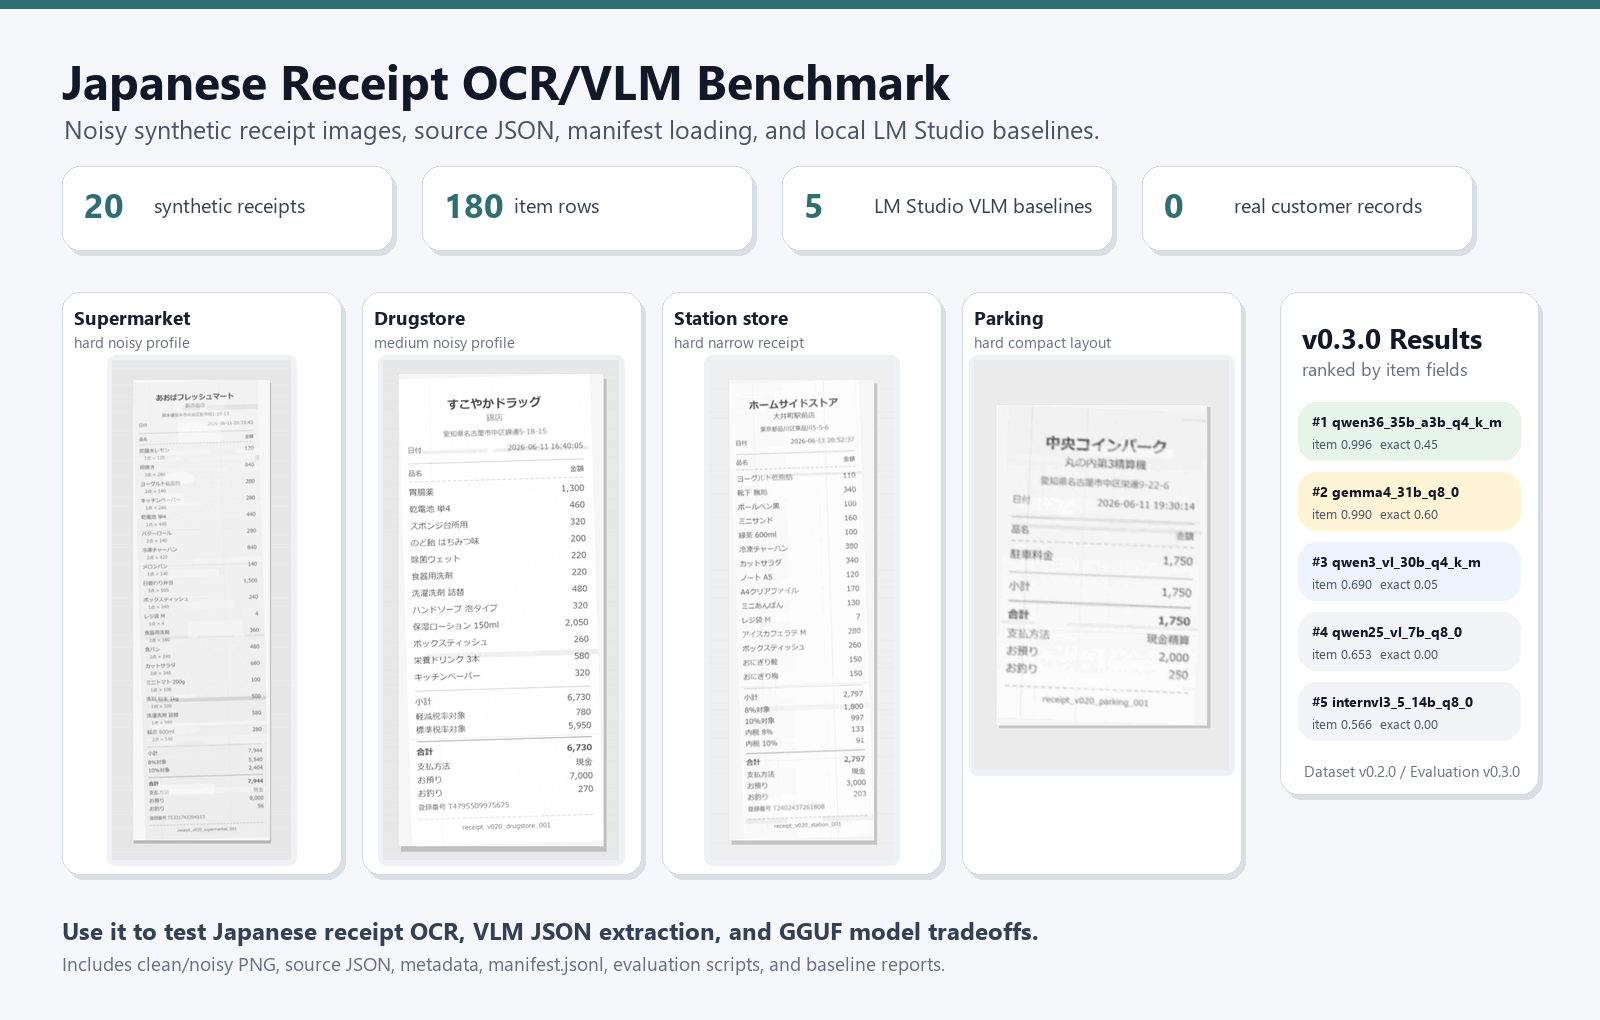
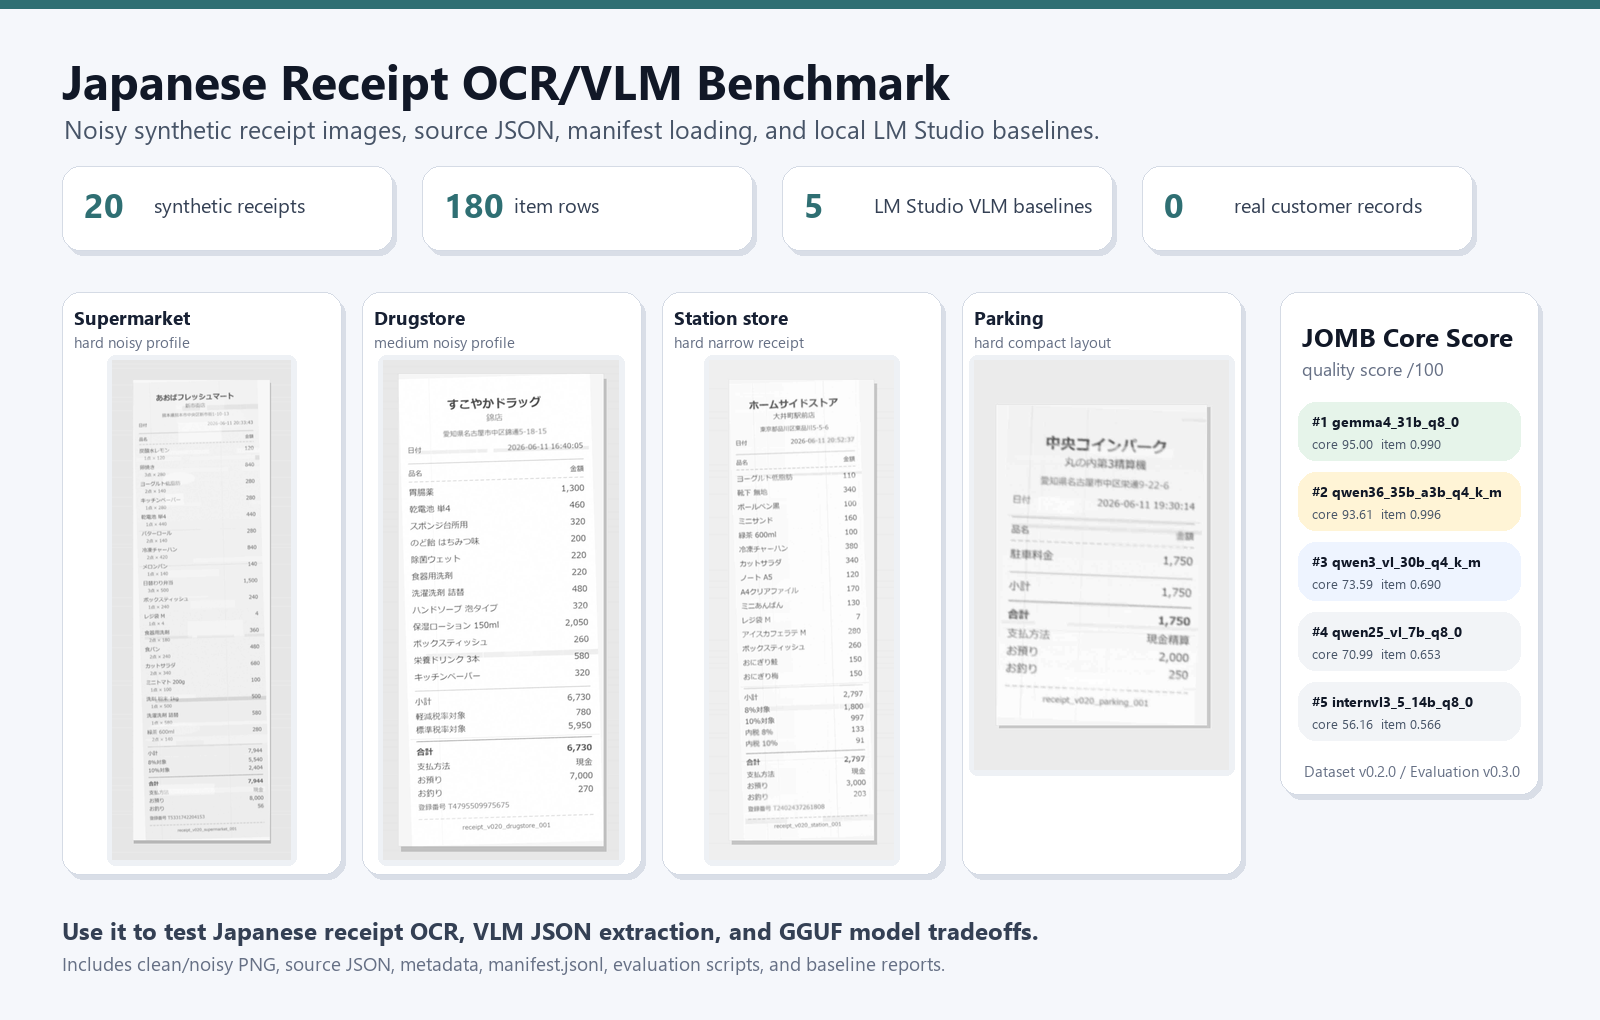
Add JOMB Core Score v1 ranking

diff --git a/reports/v0.3.0/v030_lmstudio_5model_summary.md b/reports/v0.3.0/v030_lmstudio_5model_summary.md
@@ -1,47 +1,58 @@
 # v0.3.0 LM Studio 5-Model Baseline Report
 
-- Created at: `2026-06-15T11:48:42.499085+00:00`
+- Created at: `2026-06-15T14:27:19.370783+00:00`
 - Evaluation version: `v0.3.0`
 - Dataset version: `v0.2.0`
 - Frozen target run ID: `v020_target_20260613_221713`
 - Runtime: `lmstudio_openai_compatible_api`
 - Records: `20` synthetic Japanese receipt images
 - Image variant: noisy PNG images from v0.2.0
+- Rank metric: `JOMB Core Score v1`
 
 ## Summary
 
 v0.3.0 publishes the first official local LM Studio comparison for the frozen v0.2.0 dataset.
 The data payload remains v0.2.0; v0.3.0 is the evaluation/reporting release for five local VLM baselines.
 
+- Best JOMB Core Score v1: `gemma4_31b_q8_0` at `95.00` / 100.
 - Best item-field accuracy: `qwen36_35b_a3b_q4_k_m` at `0.995833`.
 - Best exact-match accuracy: `gemma4_31b_q8_0` at `0.6`.
 - Fastest completed model: `qwen3_vl_30b_q4_k_m` at `3.248` seconds/record.
 - All five selected models produced 20 prediction JSON files with zero missing predictions.
 
+## JOMB Core Score v1
+
+`Core Score / 100 = Exact * 10 + Top-level * 25 + Item fields * 50 + Item count * 15`
+
+- Exact match is useful, but intentionally capped at 10% so strict all-or-nothing JSON matching does not dominate.
+- Item-field extraction receives 50% because line-item recovery is the main task for receipt understanding.
+- Runtime is reported separately and is not included in the score.
+- Missing or invalid prediction JSON should count as zero contribution for the affected record.
+
 ## Comparison
 
-| Rank | Model | Quant | Avg sec | Exact | Top-level | Item fields | Item count |
-| ---: | --- | --- | ---: | ---: | ---: | ---: | ---: |
-| 1 | `qwen36_35b_a3b_q4_k_m` | `Q4_K_M` | 4.282 | 0.45 | 0.972727 | 0.995833 | 1 |
-| 2 | `gemma4_31b_q8_0` | `Q8_0` | 53.195 | 0.6 | 0.979545 | 0.990278 | 1 |
-| 3 | `qwen3_vl_30b_q4_k_m` | `Q4_K_M` | 3.248 | 0.05 | 0.943182 | 0.690278 | 1 |
-| 4 | `qwen25_vl_7b_q8_0` | `Q8_0` | 5.094 | 0 | 0.934091 | 0.652778 | 1 |
-| 5 | `internvl3_5_14b_q8_0` | `Q8_0` | 9.519 | 0 | 0.725 | 0.565672 | 0.65 |
+| Rank | Model | Core /100 | Quant | Avg sec | Exact | Top-level | Item fields | Item count |
+| ---: | --- | ---: | --- | ---: | ---: | ---: | ---: | ---: |
+| 1 | `gemma4_31b_q8_0` | 95.00 | `Q8_0` | 53.195 | 0.6 | 0.979545 | 0.990278 | 1 |
+| 2 | `qwen36_35b_a3b_q4_k_m` | 93.61 | `Q4_K_M` | 4.282 | 0.45 | 0.972727 | 0.995833 | 1 |
+| 3 | `qwen3_vl_30b_q4_k_m` | 73.59 | `Q4_K_M` | 3.248 | 0.05 | 0.943182 | 0.690278 | 1 |
+| 4 | `qwen25_vl_7b_q8_0` | 70.99 | `Q8_0` | 5.094 | 0 | 0.934091 | 0.652778 | 1 |
+| 5 | `internvl3_5_14b_q8_0` | 56.16 | `Q8_0` | 9.519 | 0 | 0.725 | 0.565672 | 0.65 |
 
 ## Item Field Breakdown
 
 | Model | Name | Quantity | Unit price | Amount |
 | --- | ---: | ---: | ---: | ---: |
-| `qwen36_35b_a3b_q4_k_m` | 0.988889 | 0.994444 | 1 | 1 |
 | `gemma4_31b_q8_0` | 0.988889 | 1 | 0.972222 | 1 |
+| `qwen36_35b_a3b_q4_k_m` | 0.988889 | 0.994444 | 1 | 1 |
 | `qwen3_vl_30b_q4_k_m` | 0.938889 | 0.411111 | 0.411111 | 1 |
 | `qwen25_vl_7b_q8_0` | 0.95 | 0.622222 | 0.044444 | 0.994444 |
 | `internvl3_5_14b_q8_0` | 0.544444 | 0.748387 | 0.316129 | 0.644444 |
 
 ## Interpretation
 
-- `qwen36_35b_a3b_q4_k_m` is the strongest item-level structured extraction baseline.
-- `gemma4_31b_q8_0` has the best exact-match and top-level-field accuracy, but is much slower.
+- `gemma4_31b_q8_0` has the best JOMB Core Score v1, exact-match score, and top-level-field accuracy, but is much slower.
+- `qwen36_35b_a3b_q4_k_m` is the strongest item-level structured extraction baseline and the best speed/quality tradeoff among the top two.
 - `qwen25_vl_7b_q8_0` is the speed/lightweight baseline; it is useful for smoke tests but weak on unit-price extraction.
 - `qwen3_vl_30b_q4_k_m` reads receipt-level fields well but loses accuracy on item quantity and unit price.
 - `internvl3_5_14b_q8_0` remains useful as a non-Qwen comparison, but trails the Qwen/Gemma results on this benchmark.

diff --git a/README.md b/README.md
@@ -22,23 +22,34 @@ It is intentionally small, inspectable, and easy to run locally. That makes it u
 - **Canonical data root:** `release_v0.2.0/data/v0.2.0`
 - **Official v0.3.0 reports:** `reports/v0.3.0`
 
-## v0.3.0 Result Snapshot
+<!-- JOMB_V030_LMSTUDIO_BASELINE_START -->
+## v0.3.0 LM Studio 5-Model Baseline
 
 The v0.3.0 release compares five local GGUF/VLM models through LM Studio's OpenAI-compatible API on the same 20 noisy receipt images.
 
-| Rank | Model | Quant | Avg sec | Exact | Top-level | Item fields | Item count |
-| ---: | --- | --- | ---: | ---: | ---: | ---: | ---: |
-| 1 | `qwen36_35b_a3b_q4_k_m` | `Q4_K_M` | 4.282 | 0.45 | 0.972727 | 0.995833 | 1 |
-| 2 | `gemma4_31b_q8_0` | `Q8_0` | 53.195 | 0.6 | 0.979545 | 0.990278 | 1 |
-| 3 | `qwen3_vl_30b_q4_k_m` | `Q4_K_M` | 3.248 | 0.05 | 0.943182 | 0.690278 | 1 |
-| 4 | `qwen25_vl_7b_q8_0` | `Q8_0` | 5.094 | 0 | 0.934091 | 0.652778 | 1 |
-| 5 | `internvl3_5_14b_q8_0` | `Q8_0` | 9.519 | 0 | 0.725 | 0.565672 | 0.65 |
+### JOMB Core Score v1
+
+`Core Score / 100 = Exact * 10 + Top-level * 25 + Item fields * 50 + Item count * 15`
+
+The score is intentionally quality-only: runtime is reported separately, and item-field extraction receives the largest weight because line-item recovery is the main benchmark task.
+
+### Result Snapshot
+
+| Rank | Model | Core /100 | Quant | Avg sec | Exact | Top-level | Item fields | Item count |
+| ---: | --- | ---: | --- | ---: | ---: | ---: | ---: | ---: |
+| 1 | `gemma4_31b_q8_0` | 95.00 | `Q8_0` | 53.195 | 0.6 | 0.979545 | 0.990278 | 1 |
+| 2 | `qwen36_35b_a3b_q4_k_m` | 93.61 | `Q4_K_M` | 4.282 | 0.45 | 0.972727 | 0.995833 | 1 |
+| 3 | `qwen3_vl_30b_q4_k_m` | 73.59 | `Q4_K_M` | 3.248 | 0.05 | 0.943182 | 0.690278 | 1 |
+| 4 | `qwen25_vl_7b_q8_0` | 70.99 | `Q8_0` | 5.094 | 0 | 0.934091 | 0.652778 | 1 |
+| 5 | `internvl3_5_14b_q8_0` | 56.16 | `Q8_0` | 9.519 | 0 | 0.725 | 0.565672 | 0.65 |
 
 Quick takeaways:
 
-- `qwen36_35b_a3b_q4_k_m` is the strongest item-level structured extraction baseline.
-- `gemma4_31b_q8_0` has the best exact-match and top-level-field score, but is much slower.
+- `gemma4_31b_q8_0` has the best JOMB Core Score v1 and exact-match score, but is much slower.
+- `qwen36_35b_a3b_q4_k_m` is the strongest item-level structured extraction baseline and the best speed/quality tradeoff among the top two.
 - `qwen25_vl_7b_q8_0` is a useful lightweight speed baseline, but weak on unit-price extraction.
+
+<!-- JOMB_V030_LMSTUDIO_BASELINE_END -->
 
 ## What You Get
 

diff --git a/docs/releases/v0.3.0.md b/docs/releases/v0.3.0.md
@@ -5,24 +5,31 @@ v0.3.0 is the first official five-model LM Studio baseline comparison for the fr
 ## What Changed
 
 - Added official local LM Studio evaluation results for five VLM baselines.
+- Promoted `JOMB Core Score v1` as the official headline ranking metric.
 - Kept the underlying dataset payload fixed at v0.2.0.
 - Added v0.3.0 model registry, prompt, run-pack, probe, checker, and inference entrypoints.
 - Published sanitized comparison artifacts without local absolute paths.
 
 ## Official Models
 
-| Rank | Model | Quant | Avg sec | Exact | Top-level | Item fields | Item count |
-| ---: | --- | --- | ---: | ---: | ---: | ---: | ---: |
-| 1 | `qwen36_35b_a3b_q4_k_m` | `Q4_K_M` | 4.282 | 0.45 | 0.972727 | 0.995833 | 1 |
-| 2 | `gemma4_31b_q8_0` | `Q8_0` | 53.195 | 0.6 | 0.979545 | 0.990278 | 1 |
-| 3 | `qwen3_vl_30b_q4_k_m` | `Q4_K_M` | 3.248 | 0.05 | 0.943182 | 0.690278 | 1 |
-| 4 | `qwen25_vl_7b_q8_0` | `Q8_0` | 5.094 | 0 | 0.934091 | 0.652778 | 1 |
-| 5 | `internvl3_5_14b_q8_0` | `Q8_0` | 9.519 | 0 | 0.725 | 0.565672 | 0.65 |
+| Rank | Model | Core /100 | Quant | Avg sec | Exact | Top-level | Item fields | Item count |
+| ---: | --- | ---: | --- | ---: | ---: | ---: | ---: | ---: |
+| 1 | `gemma4_31b_q8_0` | 95.00 | `Q8_0` | 53.195 | 0.6 | 0.979545 | 0.990278 | 1 |
+| 2 | `qwen36_35b_a3b_q4_k_m` | 93.61 | `Q4_K_M` | 4.282 | 0.45 | 0.972727 | 0.995833 | 1 |
+| 3 | `qwen3_vl_30b_q4_k_m` | 73.59 | `Q4_K_M` | 3.248 | 0.05 | 0.943182 | 0.690278 | 1 |
+| 4 | `qwen25_vl_7b_q8_0` | 70.99 | `Q8_0` | 5.094 | 0 | 0.934091 | 0.652778 | 1 |
+| 5 | `internvl3_5_14b_q8_0` | 56.16 | `Q8_0` | 9.519 | 0 | 0.725 | 0.565672 | 0.65 |
+
+## Score Definition
+
+`Core Score / 100 = Exact * 10 + Top-level * 25 + Item fields * 50 + Item count * 15`
+
+Runtime is reported separately and is not part of the score.
 
 ## Recommendation
 
-- Use `qwen36_35b_a3b_q4_k_m` when item-level extraction quality is the priority.
-- Use `gemma4_31b_q8_0` when exact-match and top-level receipt fields matter and runtime is acceptable.
+- Use `gemma4_31b_q8_0` when the highest JOMB Core Score and exact-match score matter and runtime is acceptable.
+- Use `qwen36_35b_a3b_q4_k_m` when item-level extraction quality and speed/quality balance are the priority.
 - Use `qwen25_vl_7b_q8_0` for fast smoke tests and lightweight comparison runs.
 
 ## Compatibility
@@ -31,4 +38,4 @@ v0.3.0 is the first official five-model LM Studio baseline comparison for the fr
 - Dataset root remains `data/v0.2.0` on Hugging Face.
 - Evaluation version is `v0.3.0`; dataset version remains `v0.2.0`.
 
-Created at: `2026-06-15T11:48:42.499085+00:00`
+Created at: `2026-06-15T14:27:19.370783+00:00`

diff --git a/reports/v0.3.0/v030_release_notes.md b/reports/v0.3.0/v030_release_notes.md
@@ -5,24 +5,31 @@ v0.3.0 is the first official five-model LM Studio baseline comparison for the fr
 ## What Changed
 
 - Added official local LM Studio evaluation results for five VLM baselines.
+- Promoted `JOMB Core Score v1` as the official headline ranking metric.
 - Kept the underlying dataset payload fixed at v0.2.0.
 - Added v0.3.0 model registry, prompt, run-pack, probe, checker, and inference entrypoints.
 - Published sanitized comparison artifacts without local absolute paths.
 
 ## Official Models
 
-| Rank | Model | Quant | Avg sec | Exact | Top-level | Item fields | Item count |
-| ---: | --- | --- | ---: | ---: | ---: | ---: | ---: |
-| 1 | `qwen36_35b_a3b_q4_k_m` | `Q4_K_M` | 4.282 | 0.45 | 0.972727 | 0.995833 | 1 |
-| 2 | `gemma4_31b_q8_0` | `Q8_0` | 53.195 | 0.6 | 0.979545 | 0.990278 | 1 |
-| 3 | `qwen3_vl_30b_q4_k_m` | `Q4_K_M` | 3.248 | 0.05 | 0.943182 | 0.690278 | 1 |
-| 4 | `qwen25_vl_7b_q8_0` | `Q8_0` | 5.094 | 0 | 0.934091 | 0.652778 | 1 |
-| 5 | `internvl3_5_14b_q8_0` | `Q8_0` | 9.519 | 0 | 0.725 | 0.565672 | 0.65 |
+| Rank | Model | Core /100 | Quant | Avg sec | Exact | Top-level | Item fields | Item count |
+| ---: | --- | ---: | --- | ---: | ---: | ---: | ---: | ---: |
+| 1 | `gemma4_31b_q8_0` | 95.00 | `Q8_0` | 53.195 | 0.6 | 0.979545 | 0.990278 | 1 |
+| 2 | `qwen36_35b_a3b_q4_k_m` | 93.61 | `Q4_K_M` | 4.282 | 0.45 | 0.972727 | 0.995833 | 1 |
+| 3 | `qwen3_vl_30b_q4_k_m` | 73.59 | `Q4_K_M` | 3.248 | 0.05 | 0.943182 | 0.690278 | 1 |
+| 4 | `qwen25_vl_7b_q8_0` | 70.99 | `Q8_0` | 5.094 | 0 | 0.934091 | 0.652778 | 1 |
+| 5 | `internvl3_5_14b_q8_0` | 56.16 | `Q8_0` | 9.519 | 0 | 0.725 | 0.565672 | 0.65 |
+
+## Score Definition
+
+`Core Score / 100 = Exact * 10 + Top-level * 25 + Item fields * 50 + Item count * 15`
+
+Runtime is reported separately and is not part of the score.
 
 ## Recommendation
 
-- Use `qwen36_35b_a3b_q4_k_m` when item-level extraction quality is the priority.
-- Use `gemma4_31b_q8_0` when exact-match and top-level receipt fields matter and runtime is acceptable.
+- Use `gemma4_31b_q8_0` when the highest JOMB Core Score and exact-match score matter and runtime is acceptable.
+- Use `qwen36_35b_a3b_q4_k_m` when item-level extraction quality and speed/quality balance are the priority.
 - Use `qwen25_vl_7b_q8_0` for fast smoke tests and lightweight comparison runs.
 
 ## Compatibility
@@ -31,4 +38,4 @@ v0.3.0 is the first official five-model LM Studio baseline comparison for the fr
 - Dataset root remains `data/v0.2.0` on Hugging Face.
 - Evaluation version is `v0.3.0`; dataset version remains `v0.2.0`.
 
-Created at: `2026-06-15T11:48:42.499085+00:00`
+Created at: `2026-06-15T14:27:19.370783+00:00`